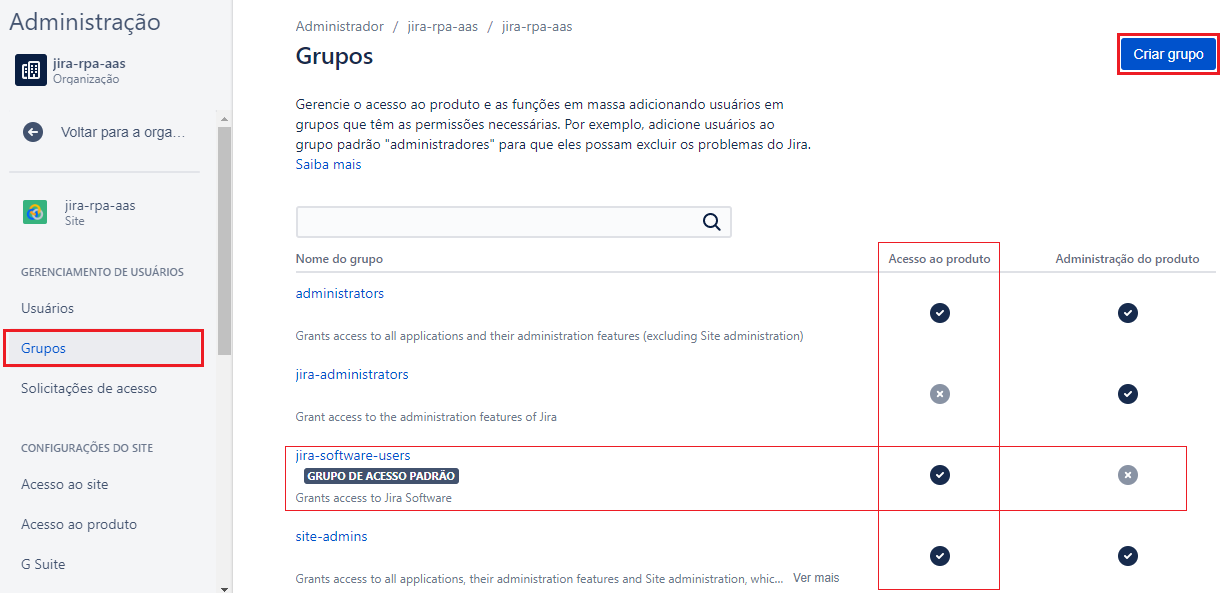
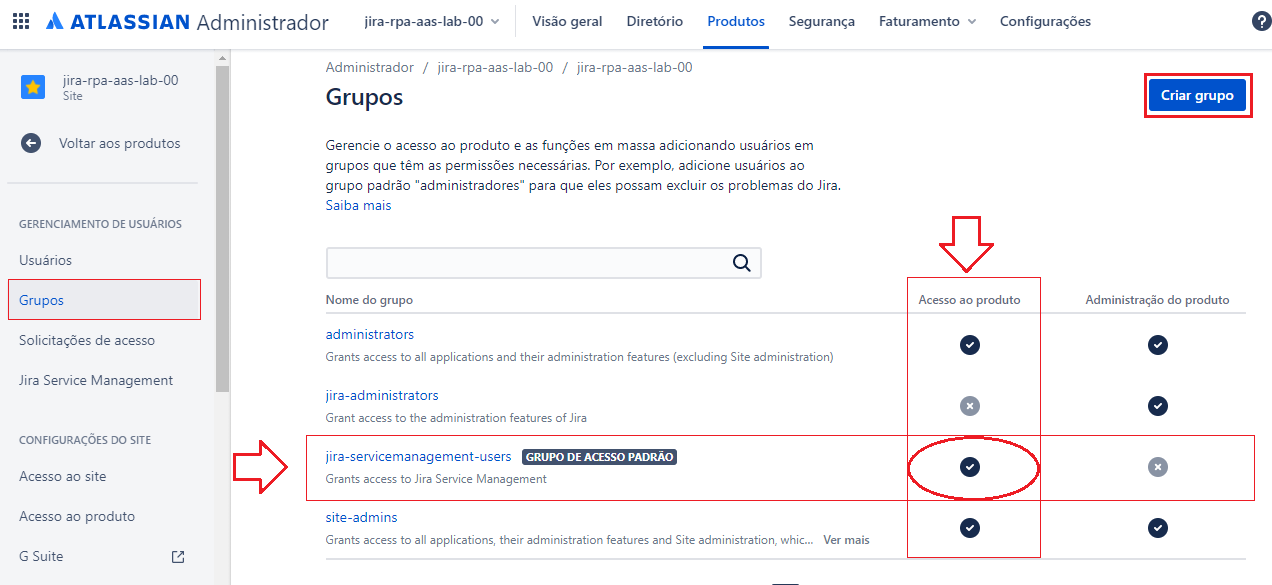
.doc/images

diff --git a/doc/README-Config-Jira-on-Cloud.md b/doc/README-Config-Jira-on-Cloud.md
@@ -12,12 +12,12 @@ Guia de Configuração da ferramenta Jira on Cloud *na nuvem* para o projeto [Ji
 
 ## 1.1. Criar o ambiente do Jira on Cloud na atlassian.net
 
-1. No seu navegador, entrar no site `https://www.atlassian.com/try`
-2. Na página de produtos da Atlassian, clique no botão `Try` abaixo do ícone *Jira Software*
+#### 1.1.1. No seu navegador, entrar no site `https://www.atlassian.com/try`
+#### 1.1.2. Na página de produtos da Atlassian, clique no botão `Try` abaixo do ícone *Jira Software*
 
 ![Config-Jira-Software-Cloud-01.png](printscreen/Config-Jira-Software-Cloud-01.png)
 
-3. Na página de produtos gratuitos da Atlassian, clique no botão `Choose one` da opção *Jira Software*
+#### 1.1.3. Na página de produtos gratuitos da Atlassian, clique no botão `Choose one` da opção *Jira Software*
 
 ![Config-Jira-Software-Cloud-02.png](printscreen/Config-Jira-Software-Cloud-02.png)
 
@@ -25,20 +25,20 @@ Guia de Configuração da ferramenta Jira on Cloud *na nuvem* para o projeto [Ji
 
 ## 1.2. Preencha as inforamções básicas do serviço Jira Cloud
 
-1. Sua escolha foi `Jira Software :: Cloud Free` que te garente
+#### 1.2.1. Sua escolha foi `Jira Software :: Cloud Free` que te garente
   * acesso a funcionalidades gratuitas
   * 2 GB de armazenamento
   * até 10 usuários
   * suporte da comunidade
-2. Preencha seu nome
+#### 1.2.2. Preencha seu nome
   * Name: `seu nome`
   * Last Name: `seu sobrenome`
   * Site name: `nome do seu site`
-3. Clique no botão `Agree and Sign In`
+#### 1.2.3. Clique no botão `Agree and Sign In`
 
 ![Config-Jira-Software-Cloud-03.png](printscreen/Config-Jira-Software-Cloud-03.png)
 
-4. Clique em `Skip question` para pular a classificação de seu site que não é obrigatória
+#### 1.2.4. Clique em `Skip question` para pular a classificação de seu site que não é obrigatória
 
 ![Config-Jira-Software-Cloud-04.png](printscreen/Config-Jira-Software-Cloud-04.png)
 
@@ -46,18 +46,20 @@ Guia de Configuração da ferramenta Jira on Cloud *na nuvem* para o projeto [Ji
 
 ## 1.3. Convide os membros do seu time
 
-1. Preencha os campos do formulário com os endereços de e-mail de cada um dos membros do seu time:
+Atenção: No tópico [1.8](#18-configurar-grupo-de-usuários-rpa) você poderá convidar mais pessoas
+
+#### 1.3.1. Preencha os campos do formulário com os endereços de e-mail de cada um dos membros do seu time:
   * e-mail: `e-mail do membro de seu time`
 
-2. Clique no botão avançar
+#### 1.3.2. Clique no botão avançar
 
 ![Config-Jira-Software-Cloud-05.png](printscreen/Config-Jira-Software-Cloud-05.png)
 
-3. Cada um dos membros do time que você informou o e-mail irá receber um e-mail conforme este abaixo, convidando-o para entrar no projeto
+#### 1.3.3. Cada um dos membros do time que você informou o e-mail irá receber um e-mail conforme este abaixo, convidando-o para entrar no projeto
 
 ![Config-Jira-Software-Cloud-06.png](printscreen/Config-Jira-Software-Cloud-06.png)
 
-4. Preencha as perguntas da pesquisa sobre o conhecimento dos usuários e em seguida clique no botão `Próximo` na próxima pergunta
+#### 1.3.4. Preencha as perguntas da pesquisa sobre o conhecimento dos usuários e em seguida clique no botão `Próximo` na próxima pergunta
 
 ![Config-Jira-Software-Cloud-07.png](printscreen/Config-Jira-Software-Cloud-07.png)
 
@@ -65,11 +67,11 @@ Guia de Configuração da ferramenta Jira on Cloud *na nuvem* para o projeto [Ji
 
 ## 1.4. Defina o template de seu projeto
 
-PS: Conforme a evolução da ferramenta, o projeto template pode ser definido no momento da criação do projeto.
+Atenção: Conforme a versão da ferramenta Jira, o projeto template pode ser definido no momento da criação do projeto e não neste momento.
 
-1. Selecione o template de `Negócio`
+#### 1.4.1. Selecione o template de `Negócio`
 
-2. Selecione a opção `Controle de Processo`
+#### 1.4.2. Selecione a opção `Controle de Processo`
 
 ![Config-Jira-Software-Cloud-08.png](printscreen/Config-Jira-Software-Cloud-08.png)
 
@@ -166,7 +168,11 @@ PS: Conforme a evolução da ferramenta, o projeto template pode ser definido no
 ![Config-Jira-Software-Cloud-21.png](printscreen/Config-Jira-Software-Cloud-21.png)
 
 #### 1.7.3. Na página `Itens` :: `Fluxo de Trabalho`, observe as configurações existentes: `RPA: Process Management Workflow`
+
   * Clique no link da ação `Editar` na linha correspondente a configuração `RPA: Process Management Workflow`
+
+![Config-Jira-Software-Cloud-22.png](printscreen/Config-Jira-Software-Cloud-22.png)
+
   * Seu objetivo será editar o Fluxo de Trabalho `RPA: Process Management Workflow` e deixá-lo conforme as configurações abaixo
 
 ![StateDiagram%20-%20Context.png](StateDiagram%20-%20Context.png)
@@ -183,15 +189,15 @@ PS: Conforme a evolução da ferramenta, o projeto template pode ser definido no
 
 #### 1.7.5. Na página `Itens` :: `Fluxo de Trabalho`, clique no link `Editar` correspondente a configuração `RPA: Process Management Workflow` e crie as seguintes _Transitions_:
 
-| Transição   | Status DE   |Status PARA   | Obs                  |
-| ----------- | ----------- | ------------ | -------------------- |
-|             | _início_    | `Open`       |                      |
-| `Submeter`  | `Open`      | `SUBMETIDO`  |                      |
-| `Submeter`  | `EM EDIÇÃO` | `SUBMETIDO`  |                      |
-| `Concluir`  | `SUBMETIDO` | `CONCLUÍDO`  |                      |
-| `Cancelar`  | _qualquer_  | `CANCELADO`  |                      |
-| `Falhar`    | `SUBMETIDO` | `FALHA`      |                      |
-| `Editar`    | `FALHA`     | `EM EDIÇÃO`  |                      |
+| Transição   | Status DE   |Status PARA   | Descrição            | Obs                  |
+| ----------- | ----------- | ------------ | -------------------- | -------------------- |
+|             | _início_    | `Open`       | Criar                |                      |
+| `Submeter`  | `Open`      | `SUBMETIDO`  | Submeter             |                      |
+| `Submeter`  | `EM EDIÇÃO` | `SUBMETIDO`  | Submeter             |                      |
+| `Concluir`  | `SUBMETIDO` | `CONCLUÍDO`  | Concluir             |                      |
+| `Cancelar`  | _qualquer_  | `CANCELADO`  | Cancelar             |                      |
+| `Falhar`    | `SUBMETIDO` | `FALHA`      | Falhar               |                      |
+| `Editar`    | `FALHA`     | `EM EDIÇÃO`  | RE-Editar            |                      |
 
 #### 1.7.6. Na página `Itens` :: `Fluxo de Trabalho`, ao final da edição clicar no link `Publicar Rascunho`:
 
@@ -200,20 +206,20 @@ PS: Conforme a evolução da ferramenta, o projeto template pode ser definido no
 
 ## 1.8. Configurar Grupo de Usuários RPA
 
-1. No menu superior principal clique no ícone de engrenagem e em seguida no item de menu `Gerenciamento de usuários`
+#### 1.8.1. No menu superior principal clique no ícone de engrenagem e em seguida no item de menu `Gerenciamento de usuários`
 
 ![Config-Jira-Software-Cloud-12.png](printscreen/Config-Jira-Software-Cloud-12.png)
 
 ![Config-Jira-Software-Cloud-23.png](printscreen/Config-Jira-Software-Cloud-23.png)
 
-2. Na página `Administrador` :: `Usuários`, no sub-menu lateral esquerdo, clique na item de sub-menu `Grupos`
-  * Observe os seguintes grupos configurados: `administrators`, `jira-administrators`, *`jira-software-users`*  e `site-admins`
-  * Todo novo usuário acrescentado ao site deve participar do grupo *`jira-software-users`* para conseguir ter acesso ao site, criar issues, etc
-  * Clique no botão `Criar Grupo`
+#### 1.8.2. Na página `Administrador` :: `Usuários`, no sub-menu lateral esquerdo, clique na item de sub-menu `Grupos`
+  * Observe os seguintes grupos configurados: `administrators`, `jira-administrators`, *`jira-software-users`* ( ou *`jira-servicemanagement-users`* ) e `site-admins`
+  * Todo novo usuário acrescentado ao site deve participar do grupo *`jira-software-users`* ( ou *`jira-servicemanagement-users`* ) para conseguir ter acesso ao site, criar issues, etc
 
 ![Config-Jira-Software-Cloud-24.png](printscreen/Config-Jira-Software-Cloud-24.png)
 
-4. Na caixa de diálogo `Criar Grupo` informe os campos:
+#### 1.8.4. Na caixa de diálogo `Criar Grupo` informe os campos:
+  * Clique no botão `Criar Grupo`
   * Nome do Grupo: `jira-software-robot-rpa-aas`
   * Descrição do Grupo: `Grupo dos robôs de atendimento automatizados`
   * `[x]` adicionar membros na próxima etapa
@@ -221,26 +227,29 @@ PS: Conforme a evolução da ferramenta, o projeto template pode ser definido no
 
 ![Config-Jira-Software-Cloud-25.png](printscreen/Config-Jira-Software-Cloud-25.png)
 
-5. Na caixa de diálogo `Adicionar Membros ao Grupo` informe os campos:
+#### 1.8.5. Na caixa de diálogo `Adicionar Membros ao Grupo` informe os campos:
   * Informe os usuários que serão *robôs de atendimento* do serviço
   * Clique no botão `Adicionar`
 
 
 ---
 
-## 1.7. Configurar Condições das Transições do Fluxo de Trabalho vs Grupo de Usuários
+## 1.9. Configurar Condições das Transições do Fluxo de Trabalho vs Grupo de Usuários
 
-1. No menu superior principal clique no ícone de engrenagem e em seguida no item de menu `Itens`
+#### 1.9.1. No menu superior principal clique no ícone de engrenagem e em seguida no item de menu `Itens`
 
 ![Config-Jira-Software-Cloud-12.png](printscreen/Config-Jira-Software-Cloud-12.png)
 
 ![Config-Jira-Software-Cloud-13.png](printscreen/Config-Jira-Software-Cloud-13.png)
 
-2. Na página `Itens` :: `Tipos de Itens`, no sub-menu lateral esquerdo, clique na item de sub-menu `Fluxo de Trabalho`
+#### 1.9.2. Na página `Itens` :: `Tipos de Itens`, no sub-menu lateral esquerdo, clique na item de sub-menu `Fluxo de Trabalho`
 
 ![Config-Jira-Software-Cloud-21.png](printscreen/Config-Jira-Software-Cloud-21.png)
 
-3. Na página `Itens` :: `Fluxo de Trabalho`, clique no botão `Editar` na linha correspondente a configuração `RPA: Process Management Workflow`
+#### 1.9.3. Na página `Itens` :: `Fluxo de Trabalho`, clique no botão `Editar` na linha correspondente a configuração `RPA: Process Management Workflow`
+
+![Config-Jira-Software-Cloud-22.png](printscreen/Config-Jira-Software-Cloud-22.png)
+
   * Seu objetivo será editar as transições em ( `Concluir` e `Falhar` ) e deixá-las restrita ao grupo de usuários `jira-software-robot-rpa-aas`
   * Clique na opção `Mostrar rótulos de transição` para facilitar a visualização
 
@@ -261,6 +270,8 @@ PS: Conforme a evolução da ferramenta, o projeto template pode ser definido no
 ![Config-Jira-Software-Cloud-29.png](printscreen/Config-Jira-Software-Cloud-29.png)
 
 	* Em seguida clique no link `Publicar Rascunho`
+
+![Config-Jira-Software-Cloud-30.png](printscreen/Config-Jira-Software-Cloud-30.png)
 
 ---
 
